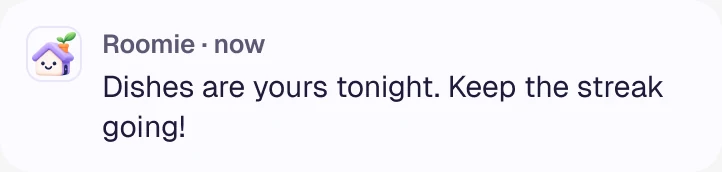
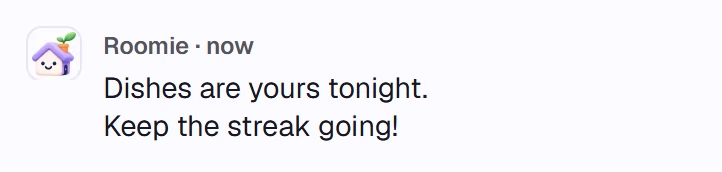
feat(site): centred glow hero, FAQ, clean notification cards
Hero follows the app: centred serif promise over a lilac-peach glow with the
Home screen rising below. Nav links sit in the true centre. Week story cards
leave a dashed slot where they lifted out, the streak card is solid instead of
see-through, notifications break one sentence per line, and a plain-words FAQ
sits before the close.

Changed region(s): [[0.1219, 0.436, 0.9141, 0.6105], [0.1219, 0.6686, 0.5485, 0.843], [0.1219, 0.2035, 0.3657, 0.3198]]

diff --git a/apps/site/src/sections/hero.css b/apps/site/src/sections/hero.css
@@ -14,7 +14,7 @@
 .topbar-inner {
   pointer-events: auto;
   width: 100%;
-  display: flex; align-items: center; gap: 8px;
+  display: grid; grid-template-columns: 1fr auto 1fr; align-items: center; gap: 8px;
   padding: 20px max(20px, (100% - 1200px) / 2);
   border-radius: 0;
   background: rgba(252, 251, 255, 0);
@@ -33,10 +33,10 @@
   border-color: rgba(233, 228, 246, .95);
   box-shadow: 0 1px 0 rgba(255, 255, 255, .8) inset, 0 14px 34px -20px rgba(59, 36, 112, .4);
 }
-.brand { display: flex; align-items: center; gap: 8px; min-height: 44px; text-decoration: none; }
+.brand { justify-self: start; display: flex; align-items: center; gap: 8px; min-height: 44px; text-decoration: none; }
 .brand .lockup { height: 40px; width: auto; transition: height .5s var(--ease); }
 .topbar.is-scrolled .brand .lockup { height: 32px; }
-.topnav { margin-left: auto; display: flex; gap: 2px; }
+.topnav { display: flex; gap: 2px; justify-self: center; }
 .topnav a {
   display: inline-flex; align-items: center; min-height: 44px;
   padding: 0 14px; border-radius: 999px;
@@ -45,7 +45,7 @@
 }
 .topnav a:hover { background: var(--lilac); color: var(--violet-deep); }
 .topbar-cta {
-  margin-left: 6px; min-height: 44px; padding: 0 18px; border-radius: 999px;
+  justify-self: end; min-height: 44px; padding: 0 18px; border-radius: 999px;
   background: var(--ink); color: var(--offwhite);
   display: inline-flex; align-items: center; gap: 9px;
   font-size: 15px; font-weight: 600; text-decoration: none; white-space: nowrap;
@@ -58,40 +58,59 @@
 }
 .topnav a:focus-visible, .topbar-cta:focus-visible, .brand:focus-visible { outline: 2px solid var(--violet); outline-offset: 2px; }
 @media (max-width: 720px) {
+  .topbar-inner { grid-template-columns: 1fr auto; }
   .topnav { display: none; }
-  .topbar-cta { margin-left: auto; }
 }
 
-/* Copy on the left; on the right a real moment, the app layered over it in depth */
-.hero-grid {
-  display: grid; grid-template-columns: minmax(0, .92fr) minmax(0, 1.08fr);
-  align-items: center; gap: clamp(32px, 5vw, 80px);
-  min-height: 100svh;
-  padding-top: calc(88px + clamp(16px, 4vh, 48px)); padding-bottom: clamp(56px, 9vh, 104px);
+/* Centred promise over a soft lilac-peach glow; the Home screen rises below and fades into the page */
+.hero {
+  background:
+    radial-gradient(42% 36% at 22% 62%, rgba(164, 137, 237, .34) 0%, transparent 70%),
+    radial-gradient(38% 34% at 78% 58%, rgba(255, 180, 138, .30) 0%, transparent 70%),
+    radial-gradient(50% 40% at 50% 8%, rgba(239, 233, 253, .9) 0%, transparent 75%),
+    var(--mist);
 }
-.hero-copy { display: grid; justify-items: start; min-width: 0; container-type: inline-size; }
-/* Sized from the column itself, so "Zero nagging." always fits: no wrap, no spill under the phone */
-.hero-copy h1 { font-size: clamp(42px, 16.4cqw, 104px); line-height: 1; }
-.hero-copy h1 em { font-variation-settings: "SOFT" 100, "WONK" 1, "opsz" 72; color: var(--violet-deep); }
-.hero-copy .lede { margin-top: clamp(22px, 3.2vh, 32px); max-width: 30em; }
-.hero-copy .stores { margin-top: clamp(28px, 4vh, 40px); }
+.hero-center {
+  display: grid; justify-items: center; text-align: center;
+  padding-top: calc(88px + clamp(40px, 9vh, 96px));
+}
+.hero-center h1 { font-size: clamp(44px, 7.2vw, 96px); line-height: 1; }
+.hero-center h1 em { font-variation-settings: "SOFT" 100, "WONK" 1, "opsz" 72; color: var(--violet-deep); }
+.hero-center .lede { margin-top: clamp(20px, 3vh, 28px); max-width: 32em; }
+.hero-center .stores { margin-top: clamp(28px, 4vh, 36px); justify-content: center; }
 
-.hero-scene { position: relative; }
-.hero-photo {
-  margin: 0; aspect-ratio: 4 / 5; max-height: min(78vh, 760px); width: 100%;
-  border-radius: 32px; overflow: hidden;
-  box-shadow: 0 40px 80px -48px rgba(59, 36, 112, .45);
+.hero-stage {
+  position: relative; display: flex; justify-content: center;
+  margin-top: clamp(48px, 8vh, 80px);
+  height: calc(var(--pw) * 1.55);
+  --pw: clamp(260px, 26vw, 340px);
+  overflow: hidden;
+  -webkit-mask-image: linear-gradient(180deg, #000 70%, transparent 100%);
+          mask-image: linear-gradient(180deg, #000 70%, transparent 100%);
 }
-.hero-photo img { width: 100%; height: 110%; margin-top: -5%; object-fit: cover; object-position: 50% 30%; }
-.hero-nudge {
-  position: absolute; left: -56px; bottom: 9%;
-  width: min(360px, 72%); height: auto; border-radius: 16px;
+.hero-phone { --phone-w: var(--pw); flex: none; align-self: flex-start; }
+.hero-float {
+  position: absolute; z-index: 2;
   box-shadow: 0 2px 4px rgba(31, 27, 58, .06), 0 24px 48px -20px rgba(59, 36, 112, .4);
 }
+.hero-nudge {
+  top: 30%; right: calc(50% + var(--pw) * .42);
+  width: min(320px, 30vw); height: auto; border-radius: 16px;
+}
+.hero-busy {
+  top: 52%; left: calc(50% + var(--pw) * .36);
+  display: flex; align-items: center; gap: 10px;
+  padding: 12px 18px 12px 12px; border-radius: 999px;
+  background: rgba(252, 251, 255, .82);
+  -webkit-backdrop-filter: blur(16px); backdrop-filter: blur(16px);
+  border: 1px solid var(--line);
+  font-size: 15px; font-weight: 500; color: var(--ink); white-space: nowrap;
+}
+.tag { display: inline-flex; align-items: center; padding: 4px 10px; border-radius: 999px; font-size: 13px; font-weight: 600; }
+.tag--heavy { background: var(--heavy-bg); color: var(--heavy-fg); }
 
-@media (max-width: 960px) {
-  .hero-grid { grid-template-columns: 1fr; min-height: 0; gap: 48px; }
-  .hero-photo { aspect-ratio: 4 / 4.4; max-height: none; }
-  .hero-nudge { left: 16px; bottom: -28px; width: min(340px, calc(100% - 32px)); }
-  .hero-scene { margin-bottom: 28px; }
+@media (max-width: 860px) {
+  .hero-stage { --pw: min(280px, 72vw); }
+  .hero-nudge { top: 50%; left: 16px; right: 16px; margin-inline: auto; width: min(320px, calc(100% - 32px)); }
+  .hero-busy { display: none; }
 }

diff --git a/apps/site/src/sections/Faq.tsx b/apps/site/src/sections/Faq.tsx
@@ -1,0 +1,92 @@
+import "./faq.css";
+
+const PROTOTYPE = "https://roomie-app-v2-delta.vercel.app";
+
+const FAQS: { q: string; a: string[] }[] = [
+  {
+    q: "How does Roomie keep it fair?",
+    a: [
+      "Every chore is Light, Medium or Heavy, so taking out the trash and scrubbing the bathroom don’t count the same.",
+      "Each week Roomie hands chores out one at a time, each to whoever has done the least so far. Everyone ends up doing about the same amount of work, not the same number of chores. Nobody sees scores or a ranking, just whether they’re on track.",
+    ],
+  },
+  {
+    q: "What if I have a really busy week?",
+    a: [
+      "Mark your busy days once, say Tuesday, Wednesday and Friday. Heavy chores never land on those days, so the big jobs go to days you’re actually free.",
+      "You can change your busy days any time, and the next week’s plan follows.",
+    ],
+  },
+  {
+    q: "What happens when someone misses a chore?",
+    a: [
+      "It moves to a shared pool. The pool shows the chore, never who missed it, so nobody gets called out.",
+      "Anyone can claim it, and whoever does gets a lighter week after. Until it’s done, the house plant droops a little. Catch up in time and it perks back up.",
+    ],
+  },
+  {
+    q: "Will Roomie nag my flatmates?",
+    a: [
+      "Roomie sends the reminders, so nobody in the flat has to. Each person picks the tone they like: Motivate me, or Just the facts.",
+      "Reminders are calm and about the chore, never about the person.",
+    ],
+  },
+  {
+    q: "How does the shared pantry work?",
+    a: [
+      "Shared things, like milk or rice, are for everyone. When something runs low, flag it or ask the house to restock. Tap “I’ll get it” and everyone can see who’s on it, so nobody buys it twice.",
+      "Your own things stay yours. Tag them Do not touch, or Ask first. If someone asks to use an Ask first item, you approve it from Activity.",
+    ],
+  },
+  {
+    q: "What does the house streak count?",
+    a: [
+      "A day counts when every chore due that day is done. The whole house shares one streak, and the plant grows at 3, 7, 14 and 30 days.",
+      "It’s something you grow together, not a scoreboard.",
+    ],
+  },
+  {
+    q: "How do my flatmates join?",
+    a: [
+      "Whoever sets up the home gets a QR code and a six-character home code. Flatmates scan it or type it in, and everyone’s in the same home.",
+      "Each person only ever sees their own home.",
+    ],
+  },
+  {
+    q: "Can I download it yet?",
+    a: [
+      "Not quite. Roomie is coming to the App Store and Google Play soon.",
+      "Until then, you can try the full interactive prototype in your browser.",
+    ],
+  },
+];
+
+/** Plain answers to what people ask before they move in. Native details/summary: works without script, one open at a time. */
+export function Faq() {
+  return (
+    <section id="faq" className="faq">
+      <div className="wrap faq-grid">
+        <div className="faq-head">
+          <p className="eyebrow">Before you move in</p>
+          <h2>A few things <em>you might wonder.</em></h2>
+          <a className="faq-link" href={PROTOTYPE} target="_blank" rel="noopener">
+            Try the interactive prototype <span aria-hidden="true">↗</span>
+          </a>
+        </div>
+        <div className="faq-list">
+          {FAQS.map((f, i) => (
+            <details key={f.q} name="faq" open={i === 0}>
+              <summary>
+                <span>{f.q}</span>
+                <i aria-hidden="true" />
+              </summary>
+              <div className="faq-a">
+                {f.a.map((p) => <p key={p}>{p}</p>)}
+              </div>
+            </details>
+          ))}
+        </div>
+      </div>
+    </section>
+  );
+}

diff --git a/apps/site/src/sections/Hero.tsx b/apps/site/src/sections/Hero.tsx
@@ -4,12 +4,13 @@ import { useEffect, useRef } from "react";
 import { gsap } from "gsap";
 import { ScrollTrigger } from "gsap/ScrollTrigger";
 import { StoreButtons } from "@/ui/StoreButtons";
+import { Phone } from "@/ui/Phone";
 import { useMotionOK } from "@/ui/useMotionOK";
 import "./hero.css";
 
 gsap.registerPlugin(ScrollTrigger);
 
-/** The promise: the app does the reminding. Only Roomie's own UI appears here. */
+/** The promise: the app does the reminding. Centred headline over a lilac-peach glow, the Home screen rising below. */
 export function Hero() {
   const motionOK = useMotionOK();
   const root = useRef<HTMLElement>(null);
@@ -28,10 +29,10 @@ export function Hero() {
   useEffect(() => {
     if (!motionOK || !root.current) return;
     const ctx = gsap.context(() => {
-      // One quiet moment: the photo settles, then the nudge arrives on its corner.
-      gsap.from(".hero-photo", { opacity: 0, scale: 0.97, duration: 1.2, ease: "expo.out" });
-      gsap.from(".hero-nudge", { opacity: 0, y: 24, duration: 1, delay: 0.9, ease: "expo.out" });
-      gsap.to(".hero-photo img", { yPercent: 8, ease: "none",
+      // The phone rises into the glow, then the two moments float out beside it.
+      gsap.from(".hero-phone", { opacity: 0, y: 60, duration: 1.3, ease: "expo.out" });
+      gsap.from(".hero-float", { opacity: 0, y: 24, duration: 1, delay: 0.8, stagger: 0.15, ease: "expo.out" });
+      gsap.to(".hero-phone", { y: -40, ease: "none",
         scrollTrigger: { trigger: root.current, start: "top top", end: "bottom top", scrub: 0.6 } });
     }, root);
     return () => ctx.revert();
@@ -54,22 +55,21 @@ export function Hero() {
         </div>
       </header>
 
-      <div className="hero-grid wrap">
-        <div className="hero-copy">
-          <h1>Fair chores. <em className="nb">Zero nagging.</em></h1>
-          <p className="lede">
-            Roomie splits chores by effort, works around busy weeks, and sends the reminders itself, so nobody in the flat has to play the parent.
-          </p>
-          <StoreButtons />
-        </div>
+      <div className="hero-center wrap">
+        <h1>Fair chores. <em className="nb">Zero nagging.</em></h1>
+        <p className="lede">
+          Roomie splits chores by effort, works around busy weeks, and sends the reminders itself, so nobody in the flat has to play the parent.
+        </p>
+        <StoreButtons />
+      </div>
 
-        <div className="hero-scene">
-          <figure className="hero-photo">
-            {/* eslint-disable-next-line @next/next/no-img-element */}
-            <img src="/photos/hero-laundry.webp" alt="A flatmate laughing as he carries a full laundry basket down the hallway" width={1400} height={1400} fetchPriority="high" />
-          </figure>
-          {/* eslint-disable-next-line @next/next/no-img-element */}
-          <img className="hero-nudge" src="/cards/hero-nudge.webp" alt="Roomie · now: Dishes are yours tonight. Keep the streak going!" width={361} height={86} />
+      <div className="hero-stage">
+        <Phone className="hero-phone" src="/screens/h1-home.webp" alt="Roomie Home: a 23 day house streak, the plant in bloom, and today's tasks" priority />
+        {/* eslint-disable-next-line @next/next/no-img-element */}
+        <img className="hero-float hero-nudge" src="/cards/hero-nudge.webp" alt="Roomie · now: Dishes are yours tonight. Keep the streak going!" width={361} height={86} />
+        <div className="hero-float hero-busy" aria-label="Heavy jobs stay off your busy days">
+          <span className="tag tag--heavy">Heavy</span>
+          <span>Kept off your busy Wednesday</span>
         </div>
       </div>
     </section>

diff --git a/apps/site/src/sections/faq.css b/apps/site/src/sections/faq.css
@@ -1,0 +1,50 @@
+.faq { padding-block: clamp(88px, 14vh, 160px); }
+.faq-grid {
+  display: grid; grid-template-columns: minmax(0, .8fr) minmax(0, 1.2fr);
+  gap: clamp(40px, 8vw, 120px); align-items: start;
+}
+.faq-head { position: sticky; top: 120px; display: grid; justify-items: start; gap: 20px; }
+.faq-head h2 { font-size: clamp(44px, 5.6vw, 80px); line-height: 1; }
+.faq-head h2 em { display: block; font-variation-settings: "SOFT" 100, "WONK" 1, "opsz" 72; color: var(--violet-deep); }
+.faq-link {
+  display: inline-flex; align-items: center; gap: 8px; min-height: 44px; margin-top: 8px;
+  font-weight: 500; color: var(--violet-deep); text-decoration: none;
+  border-radius: 8px;
+}
+.faq-link:hover { text-decoration: underline; text-underline-offset: 4px; }
+
+.faq-list { border-top: 1px solid var(--line); }
+.faq details { border-bottom: 1px solid var(--line); }
+.faq summary {
+  list-style: none; cursor: pointer;
+  display: flex; align-items: center; justify-content: space-between; gap: 24px;
+  padding: 26px 4px; min-height: 44px;
+  font-size: clamp(17px, 1.4vw, 20px); font-weight: 500; color: var(--ink);
+  border-radius: 12px;
+}
+.faq summary::-webkit-details-marker { display: none; }
+.faq summary span { text-wrap: balance; }
+@media (hover: hover) { .faq summary:hover span { color: var(--violet-deep); } }
+.faq-link:focus-visible, .faq summary:focus-visible { outline: 2px solid var(--violet); outline-offset: 2px; }
+
+/* Plus that turns into a minus */
+.faq summary i { position: relative; flex: none; width: 16px; height: 16px; }
+.faq summary i::before, .faq summary i::after {
+  content: ""; position: absolute; left: 0; top: 7.25px; width: 16px; height: 1.5px; border-radius: 1px;
+  background: var(--ink-2); transition: transform .3s ease;
+}
+.faq summary i::after { transform: rotate(90deg); }
+.faq details[open] summary i::after { transform: rotate(0deg); }
+
+.faq-a { display: grid; gap: 12px; padding: 0 48px 28px 4px; max-width: 40em; color: var(--muted); }
+
+@media (prefers-reduced-motion: no-preference) {
+  .faq details::details-content { transition: height .35s ease, content-visibility .35s allow-discrete; height: 0; overflow: clip; }
+  .faq details[open]::details-content { height: auto; }
+  .faq { interpolate-size: allow-keywords; }
+}
+@media (max-width: 860px) {
+  .faq-grid { grid-template-columns: 1fr; }
+  .faq-head { position: static; }
+  .faq-a { padding-right: 4px; }
+}

diff --git a/apps/site/src/sections/Week.tsx b/apps/site/src/sections/Week.tsx
@@ -30,6 +30,16 @@ function OwnerChip({ owner, className = "" }: { owner: Owner; className?: string
   );
 }
 
+/** The dashed gap a card leaves in the screen when it lifts out. The hidden copy of the card sets the slot's height. */
+function Slot({ d, className = "" }: { d: WeekDay; className?: string }) {
+  return (
+    <span className={`pop-slot ${className}`} style={popVars(d.pop, popDelay(d))} aria-hidden="true">
+      {/* eslint-disable-next-line @next/next/no-img-element */}
+      <img src={d.pop.src} alt="" loading="lazy" />
+    </span>
+  );
+}
+
 /** Mobile and reduced motion: one still scene per day. */
 function InlineScene({ d }: { d: WeekDay }) {
   return (
@@ -43,6 +53,7 @@ function InlineScene({ d }: { d: WeekDay }) {
       )}
       <Phone src={d.screen} alt={`${d.day}: ${d.title}`} />
       {d.tap && <span className="tap" style={tapVars(d.tap)} aria-hidden="true" />}
+      <Slot d={d} />
       {/* eslint-disable-next-line @next/next/no-img-element */}
       <img className="pop" src={d.pop.src} alt={d.pop.alt} style={popVars(d.pop, 0)} />
       <OwnerChip owner={d.owner} className={d.second ? "beside" : ""} />
@@ -139,6 +150,7 @@ export function Week() {
                   </span>
                 </figure>
                 {WEEK.map((d, i) => d.tap && <span key={d.day} className={`tap ${on(i)}`} style={tapVars(d.tap)} />)}
+                {WEEK.map((d, i) => <Slot key={d.day} d={d} className={on(i)} />)}
                 {WEEK.map((d, i) => (
                   // eslint-disable-next-line @next/next/no-img-element
                   <img key={d.pop.src} className={`pop ${on(i)}`} src={d.pop.src} alt="" style={popVars(d.pop, popDelay(d))} loading="lazy" />

diff --git a/apps/site/src/ui/ui.css b/apps/site/src/ui/ui.css
@@ -100,6 +100,20 @@
   transition: opacity .2s ease var(--delay), transform .9s cubic-bezier(.2, 1.25, .35, 1) calc(var(--delay) + .12s), box-shadow .9s ease calc(var(--delay) + .12s);
 }
 
+/* Where the card was: an empty dashed slot, like the pantry's My items screen */
+.pop-slot {
+  position: absolute; z-index: 2; display: block;
+  left: calc(var(--phone-w) * (.01845 + var(--x) * .9631));
+  top: calc(var(--phone-w) * (.04 + var(--y) * 2.0879));
+  width: calc(var(--phone-w) * var(--w) * .9631);
+  border-radius: calc(var(--phone-w) * var(--r) * .9631);
+  background: #F1EEFB;
+  outline: 1.5px dashed #C7BCEF; outline-offset: -1.5px;
+}
+.pop-slot img { visibility: hidden; width: 100%; height: auto; }
+.stage-device .pop-slot, .reveal .pop-slot { opacity: 0; transition: opacity .2s ease; }
+.stage-device .pop-slot.on, .reveal.on .pop-slot { opacity: 1; transition: opacity .3s ease calc(var(--delay) + .12s); }
+
 .tap {
   position: absolute; z-index: 2; pointer-events: none;
   width: calc(var(--phone-w) * .085); aspect-ratio: 1; border-radius: 50%;

diff --git a/apps/site/src/app/page.tsx b/apps/site/src/app/page.tsx
@@ -5,6 +5,7 @@ import { Week } from "@/sections/Week";
 import { Features } from "@/sections/Features";
 import { RealLife } from "@/sections/RealLife";
 import { Shelf } from "@/sections/Shelf";
+import { Faq } from "@/sections/Faq";
 import { Close } from "@/sections/Close";
 import { Footer } from "@/sections/Footer";
 
@@ -19,6 +20,7 @@ export default function Home() {
       <Week />
       <RealLife />
       <Shelf />
+      <Faq />
       <Close />
     </main>
     <Footer />
